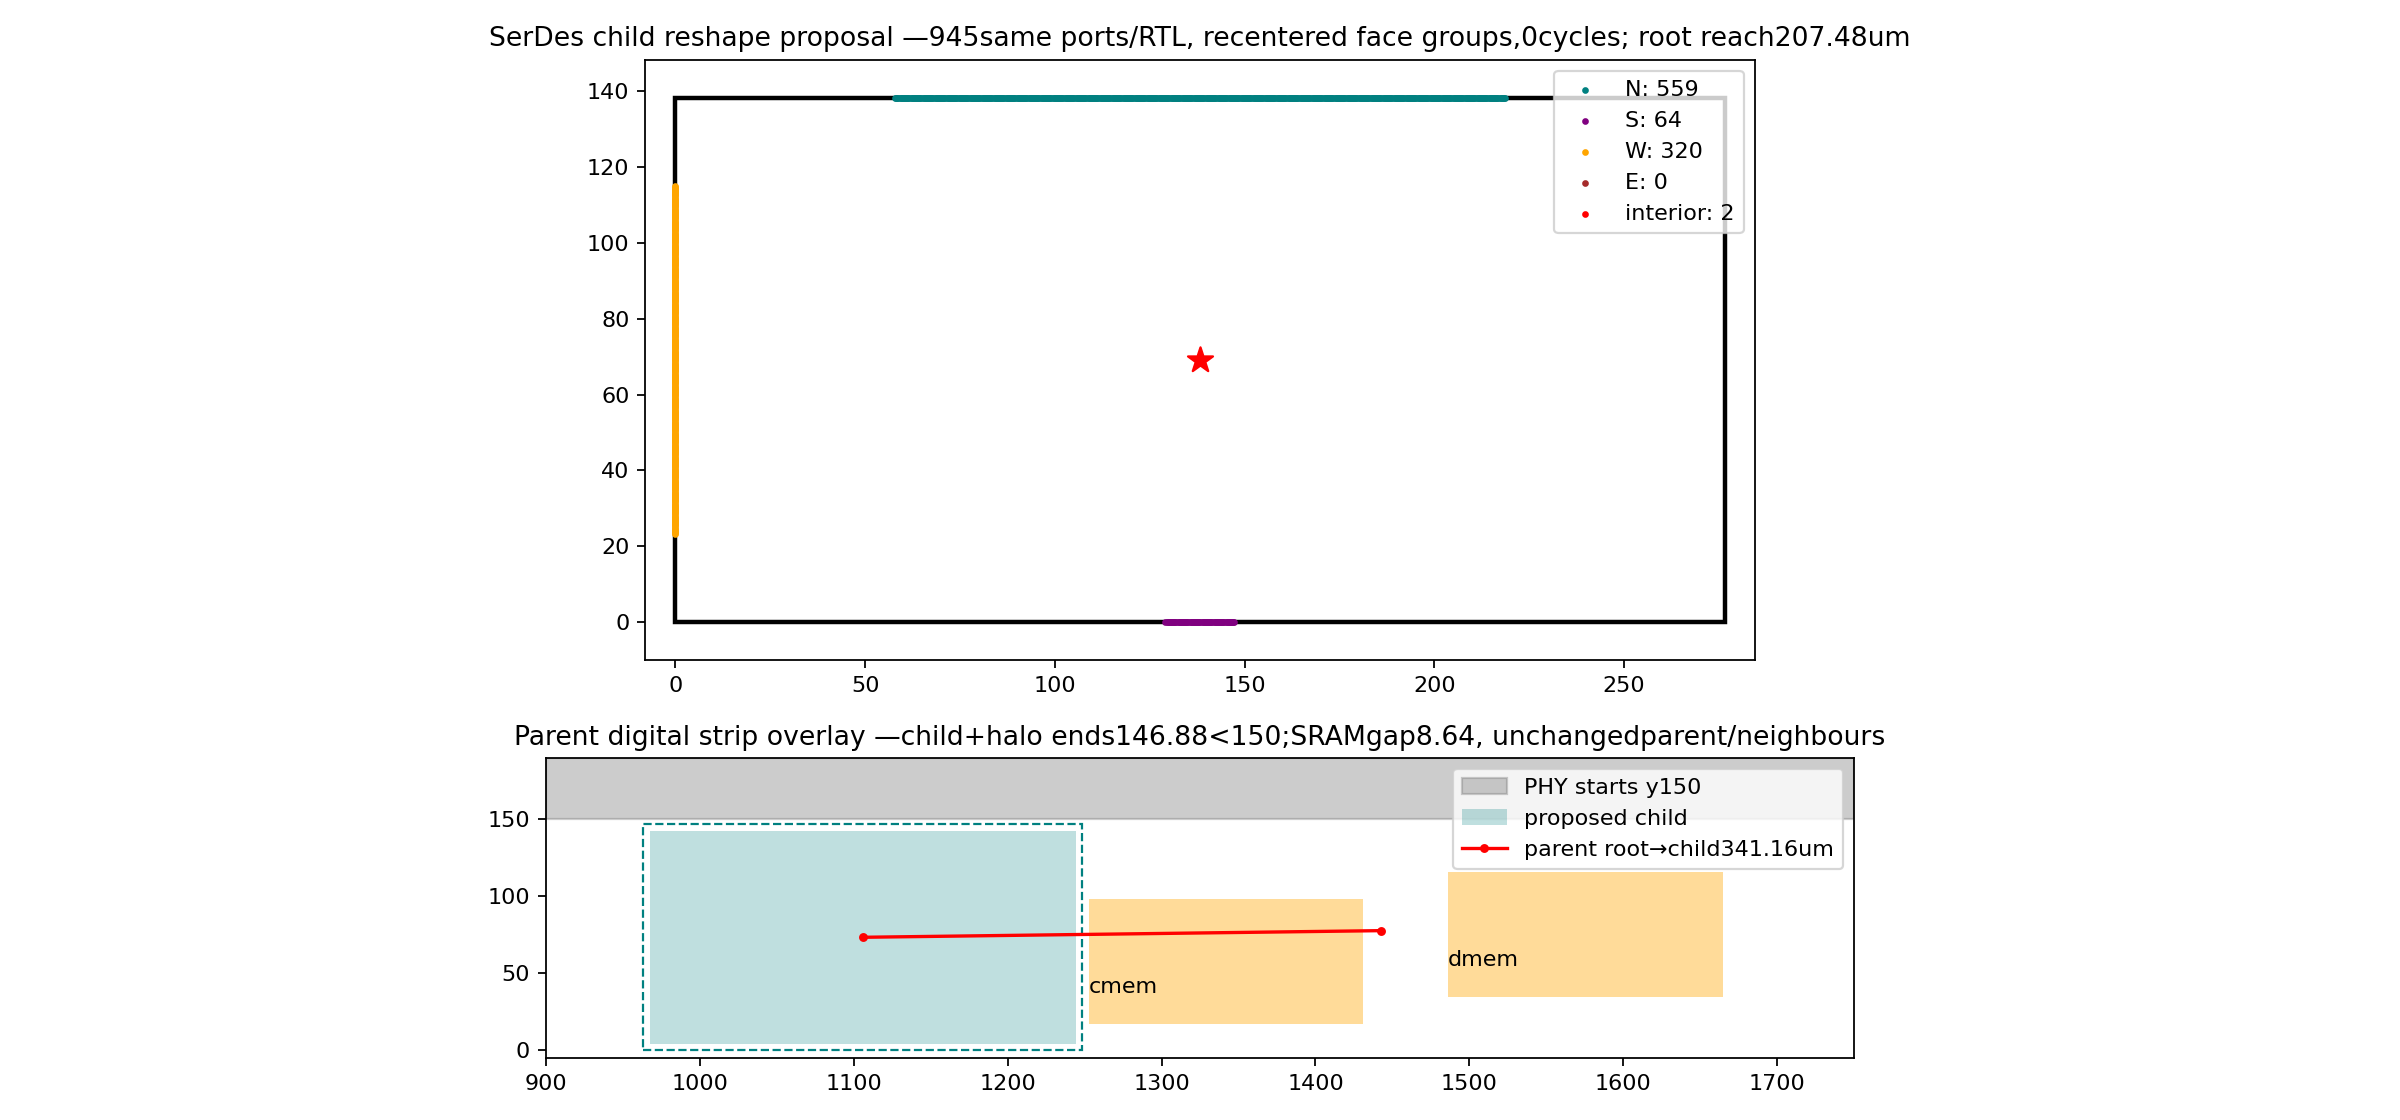
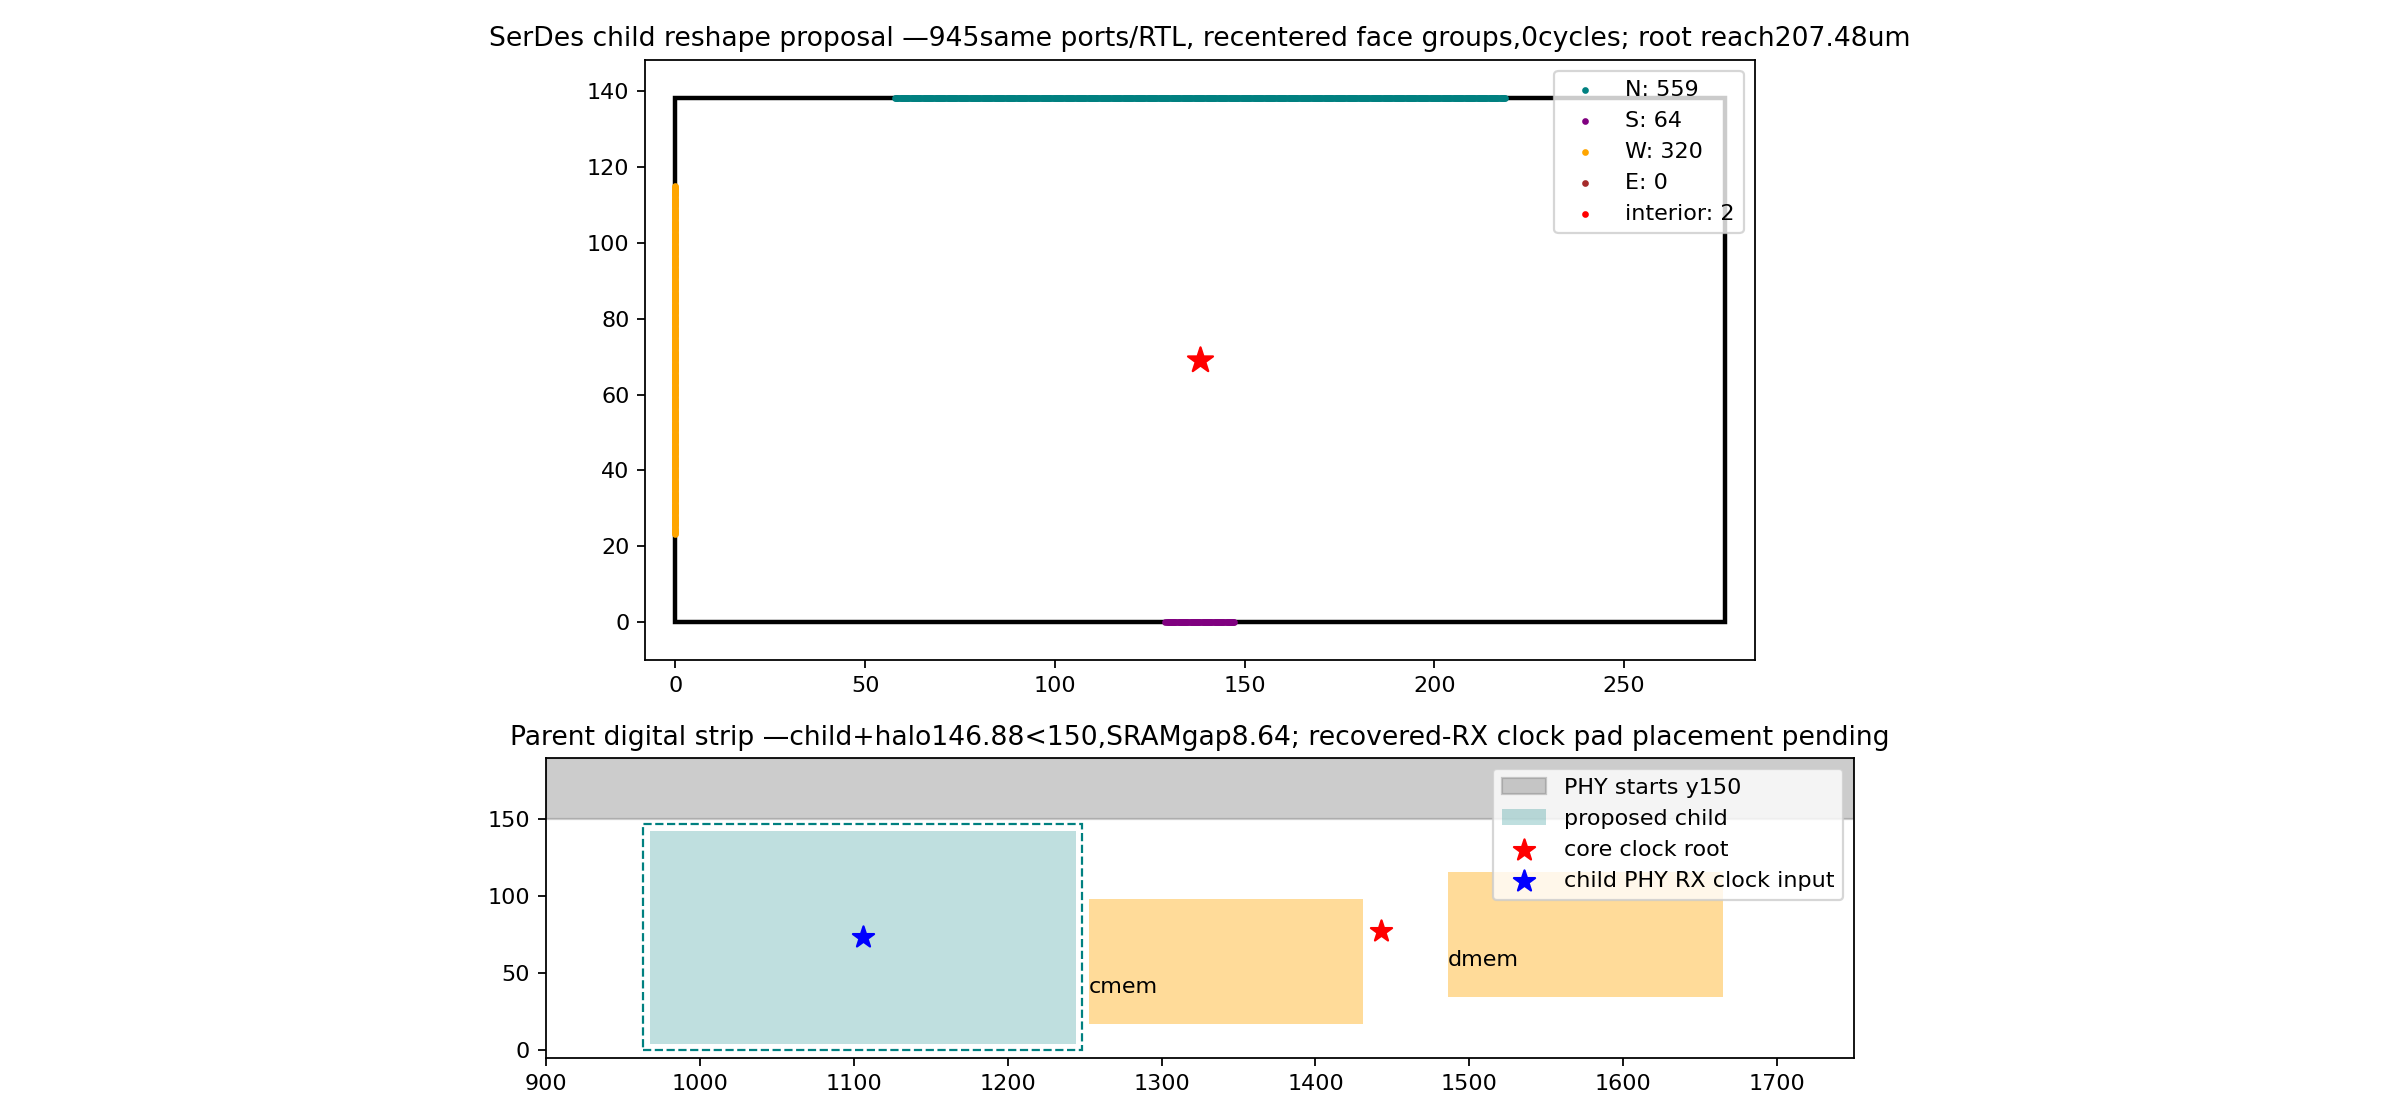
HEAD reshape: correct child clock domain from actual PMA net trace

Changed region(s): [[0.2188, 0.625, 0.7812, 0.8125], [0.3438, 0.8125, 0.5938, 0.8438]]

diff --git a/results/codex_head_collect_1030/serdes_reshape/reshape_serdes.py b/results/codex_head_collect_1030/serdes_reshape/reshape_serdes.py
@@ -35,7 +35,7 @@ doc=dict(oldcanon,rule='RESHAPE PROPOSAL: unchanged945pin names/layers/sizes/fac
 child=dict(inst='u_phy.u_link.u_dec.u_chn',module='ot_s81_kp4_dchn',origin_um=[967.68,0.0],track_offset_um=[0,4.32],outline_um=[W,H],orient='R0',pins_file='core_pins/kp4_276x138_pins.json',cells=189510,obs_max='M5',note='PROPOSED NOT SIGNED: actual189510stdcells21631.646um2;945sameRTLports0cycles; recenteredpinprofile within150um digitalstrip. Parent origin967.68,0 + trackoffset0,4.32; noLEF/lib until matching actualview.')
 (R/'parent_core_proposal.json').write_text(json.dumps(child,indent=1)+'\n')
 a=21631.64615995453;core=(W-8.64)*(H-8.64);clk=by['clk'];rst=by['rst_n'];gap=clk['x']-clk['size'][0]/2-rst['x']-rst['size'][0]/2
-est=dict(scope='estimate BEFORE physical build; no adoption',std_cells=189510,std_area_um2=a,outline_um=[W,H],aspect=W/H,gross_util=a/(W*H),usable_util=a/core,reason_usable_above_0p60='150um PHY digital strip fixes height;aspect2limitswidth;usable.623 remains below.75hardGEOMceiling;no threshold waiver',child_clock_root=[clk['x'],clk['y']],max_root_manhattan_um=max(abs(x-clk['x'])+abs(y-clk['y']) for x in [0,W] for y in [0,H]),clk_reset_edge_gap_um=gap,macro_halo_um=4.32,parent_actual_origin_um=[967.68,4.32],parent_clock_hop_um=abs(1442.88-(967.68+clk['x']))+abs(77.76-(4.32+clk['y'])),srams_preserved=[dict(name='cmem',origin_um=[1252.8,17.28],outline_um=[177.768,81]),dict(name='dmem',origin_um=[1486.08,34.56],outline_um=[178.632,81])],nearest_SRAM_edge_gap_um=1252.8-(967.68+W),halo_top_um=4.32+H+4.32,phy_start_y_um=150,pins=945,pin_names_layers_sizes_faceorder_unchanged=True,added_cycles=0,added_RTL=0)
+est=dict(scope='estimate BEFORE physical build; no adoption',std_cells=189510,std_area_um2=a,outline_um=[W,H],aspect=W/H,gross_util=a/(W*H),usable_util=a/core,reason_usable_above_0p60='150um PHY digital strip fixes height;aspect2limitswidth;usable.623 remains below.75hardGEOMceiling;no threshold waiver',child_clock_root=[clk['x'],clk['y']],max_root_manhattan_um=max(abs(x-clk['x'])+abs(y-clk['y']) for x in [0,W] for y in [0,H]),clk_reset_edge_gap_um=gap,macro_halo_um=4.32,parent_actual_origin_um=[967.68,4.32],parent_core_root_geometric_reference_only_um=abs(1442.88-(967.68+clk['x']))+abs(77.76-(4.32+clk['y'])),srams_preserved=[dict(name='cmem',origin_um=[1252.8,17.28],outline_um=[177.768,81]),dict(name='dmem',origin_um=[1486.08,34.56],outline_um=[178.632,81])],nearest_SRAM_edge_gap_um=1252.8-(967.68+W),halo_top_um=4.32+H+4.32,phy_start_y_um=150,child_clock_domain='PMA recovered pma_rck; actual parent pad site and input clock contract pending; parent core clk is not the source',pins=945,pin_names_layers_sizes_faceorder_unchanged=True,added_cycles=0,added_RTL=0)
 (R/'estimate.json').write_text(json.dumps(est,indent=1)+'\n')
 fig,(ax,pa)=plt.subplots(2,1,figsize=(15,7),gridspec_kw={'height_ratios':[2,1]})
 ax.add_patch(Rectangle((0,0),W,H,fill=False,lw=2));cols={'N':'teal','S':'purple','W':'orange','E':'brown','interior':'red'}
@@ -46,7 +46,7 @@ pa.add_patch(Rectangle((900,150),850,40,color='gray',alpha=.4,label='PHY starts 
 pa.add_patch(Rectangle((967.68,4.32),W,H,facecolor='teal',alpha=.25,label='proposed child'))
 pa.add_patch(Rectangle((967.68-4.32,0),W+8.64,H+8.64,fill=False,ls='--',edgecolor='teal'))
 for s in est['srams_preserved']:pa.add_patch(Rectangle(s['origin_um'],*s['outline_um'],facecolor='orange',alpha=.4));pa.text(s['origin_um'][0],s['origin_um'][1]+20,s['name'])
-pa.plot([1442.88,967.68+clk['x']],[77.76,4.32+clk['y']],'r.-',label='parent root→child341.16um')
-pa.set_xlim(900,1750);pa.set_ylim(-5,190);pa.set_aspect('equal');pa.legend(loc='upper right');pa.set_title('Parent digital strip overlay —child+halo ends146.88<150;SRAMgap8.64, unchangedparent/neighbours')
+pa.scatter([1442.88],[77.76],marker='*',c='red',s=100,label='core clock root');pa.scatter([967.68+clk['x']],[4.32+clk['y']],marker='*',c='blue',s=100,label='child PHY RX clock input')
+pa.set_xlim(900,1750);pa.set_ylim(-5,190);pa.set_aspect('equal');pa.legend(loc='upper right');pa.set_title('Parent digital strip —child+halo146.88<150,SRAMgap8.64; recovered-RX clock pad placement pending')
 fig.tight_layout();fig.savefig(R/'preview.png',dpi=160)
 print(json.dumps(est))
